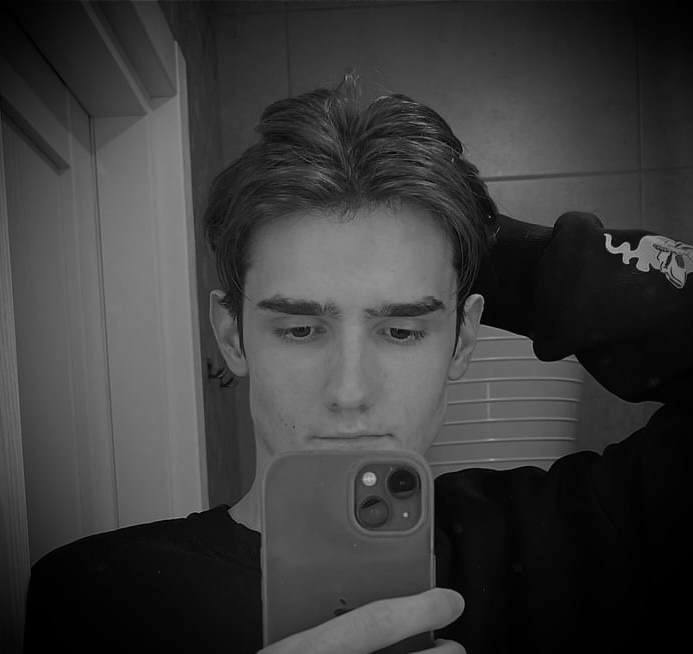
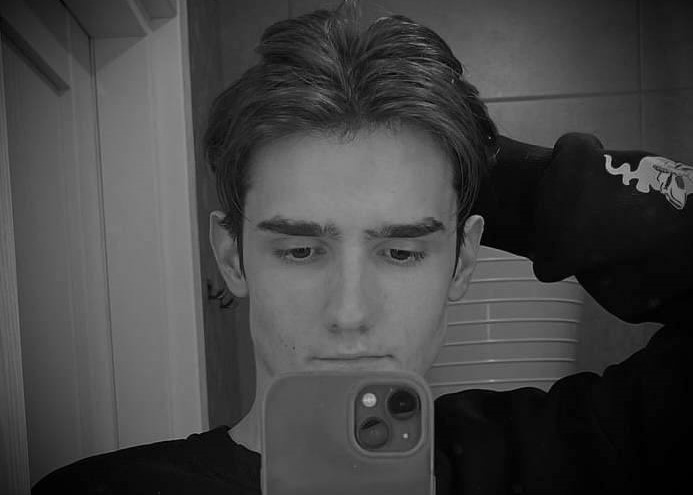
Зробив фото у формі "про нас" розміром 7:5 щоб вони виглядали всі однаково і були підлаштовані під віджет. Додав іконки у пагінації між кнопками навігації які візуально показують за що саме кожен учасний був відповідальний

diff --git a/Code/mainWindow.cpp b/Code/mainWindow.cpp
@@ -9,7 +9,7 @@ MainWindow_C::MainWindow_C(QWidget* parent) : QWidget(parent) {
         if (!imagesDir.exists()) {
             throw ex(1);
         }
-        QString photoNames[15]{
+        QString photoNames[19]{
             "Add_icon.png",
             "arrowL.png",
             "arrowR.png",
@@ -23,9 +23,14 @@ MainWindow_C::MainWindow_C(QWidget* parent) : QWidget(parent) {
             "title.png",
             "title_Setings.png",
             "vladMamont.jpg",
-            "warning.png"
+            "warning.png",
+            "ui.png",
+            "data.png",
+            "class.png",
+            "excep.png",
+            "algoritms.png"
         };
-        for (int i = 0; i < 14; i++) {
+        for (int i = 0; i < 19; i++) {
             if (QIcon("Images/"+ photoNames[i]).isNull()) {
                 throw ex(2);
             }
@@ -516,6 +521,7 @@ void MainWindow_C::AboutUsButtonPressed() {
         }
         //нове вікно про нас
         QDialog* settingsWidget = new QDialog(); settingsWidget->setObjectName("settingsWidget");
+
         QGridLayout* settingsLayout = new QGridLayout(settingsWidget);
         settingsWidget->setWindowIcon(mainIcon); // Встановлюю іконку
         settingsWidget->setWindowTitle("Про нас");
@@ -525,7 +531,7 @@ void MainWindow_C::AboutUsButtonPressed() {
         QWidget* Body = new QWidget(settingsWidget); Body->setObjectName("Body");
         QGridLayout* bodyLayout = new QGridLayout(Body);
 
-        settingsWidget->setFixedSize(400, 400);
+        settingsWidget->setFixedSize(450, 450);
         settingsLayout->addWidget(Body, 0, 0);
         //віджет для пагінації (винесено сюди, щоб у майбутньому його налаштувати )
         settingsLayout->setRowStretch(1, 1);
@@ -568,59 +574,127 @@ void MainWindow_C::AboutUsButtonPressed() {
             "}"
         );
 
-        ButtonNavigateLeft->setFixedSize(30, 30);
-        ButtonNavigateLright->setFixedSize(30, 30);
-        if (QIcon("Images/arrowL.png").isNull()) {
-            throw ex(2);
-        }
-        if (QIcon("Images/arrowR.png").isNull()) {
-            throw ex(2);
-        }
-        if (QIcon("Images/photo_Gaulun.jpg").isNull()) {
-            throw ex(2);
-        }
-        if (QIcon("Images/vladMamont.jpg").isNull()) {
-            throw ex(2);
-        }
-        if (QIcon("Images/IvanBondarenko.jpg").isNull()) {
-            throw ex(2);
-        }
-        if (QIcon("Images/sashaTretiak.jpg").isNull()) {
-            throw ex(2);
-        }
-        if (QIcon("Images/RodionShevchenko.jpg").isNull()) {
+        ButtonNavigateLeft->setFixedSize(40,40);
+        ButtonNavigateLright->setFixedSize(40,40);
+        ButtonNavigateLeft->setIconSize(QSize(25,25));
+        ButtonNavigateLright->setIconSize(QSize(25,25));
+
+        if (
+            QIcon("Images/arrowL.png").isNull() ||
+            QIcon("Images/arrowR.png").isNull() ||
+            QIcon("Images/photo_Gaulun.jpg").isNull() ||
+            QIcon("Images/vladMamont.jpg").isNull() || 
+            QIcon("Images/IvanBondarenko.jpg").isNull() ||
+            QIcon("Images/sashaTretiak.jpg").isNull() || 
+            QIcon("Images/RodionShevchenko.jpg").isNull() ||
+            QIcon("Images/arrowL.png").isNull()  ||
+            QIcon("Images/arrowR.png").isNull() ||
+            QIcon("Images/photo_Gaulun.jpg").isNull() ||
+            QIcon("Images/vladMamont.jpg").isNull() ||
+            QIcon("Images/IvanBondarenko.jpg").isNull()
+            ) {
             throw ex(2);
         }
 
+       
         ButtonNavigateLeft->setIcon(QIcon("Images/arrowL.png"));
         ButtonNavigateLright->setIcon(QIcon("Images/arrowR.png"));
 
-        PaginationLayout->addWidget(ButtonNavigateLeft, 0, 0, Qt::AlignRight);
-        PaginationLayout->addWidget(ButtonNavigateLright, 0, 1, Qt::AlignLeft);
+        PaginationLayout->setColumnStretch(0, 10);
+        PaginationLayout->setColumnStretch(1, 4);
+        PaginationLayout->setColumnStretch(2, 10);
 
-        auto showDev = [this, Body, bodyLayout](int& currentDevelopVar) {
+        auto setIcons = [settingsWidget](QLabel& label, const QString& way) {
+            label.setVisible(false);
+            label.setPixmap(QPixmap(way));
+            label.setFixedSize(40, 40);
+            label.setScaledContents(true);
+            };
+
+        QLabel* ui = new QLabel(settingsWidget);
+        QLabel* algoritms = new QLabel(settingsWidget);
+        QLabel* DataBase = new QLabel(settingsWidget);
+        QLabel* excep = new QLabel(settingsWidget);
+        QLabel* classR = new QLabel(settingsWidget);
+
+
+        setIcons(*ui, "Images/ui.png");
+        setIcons(*algoritms, "Images/algoritms.png");
+        setIcons(*DataBase, "Images/data.png");
+        setIcons(*excep, "Images/excep.png");
+        setIcons(*classR, "Images/class.png");
+
+
+        PaginationLayout->addWidget(ui, 0, 1);
+        PaginationLayout->addWidget(algoritms, 0, 1);
+        PaginationLayout->addWidget(DataBase, 0, 1);
+        PaginationLayout->addWidget(excep, 0, 1);
+        PaginationLayout->addWidget(classR, 0, 1);
+
+
+        
+        PaginationLayout->addWidget(ButtonNavigateLeft, 0, 0, Qt::AlignRight);
+        
+        PaginationLayout->addWidget(ButtonNavigateLright, 0, 2, Qt::AlignLeft);
+
+        auto showDev = [this, Body, bodyLayout, &PaginationLayout, &ui, &algoritms, &DataBase, &excep, &classR](int& currentDevelopVar) {
             if (currentDevelopVar == 0) {
-                showWindowAboutUs("Images/photo_Gaulun.jpg", "Гайлунь Владислав", "Інтерфейс", "https://github.com/Vlad156763", Body, bodyLayout);
+                showWindowAboutUs("Images/photo_Gaulun.jpg", "Гайлунь Владислав", "\nІнтерфейс та дизайн", "https://github.com/Vlad156763", Body, bodyLayout);
+                ui->setVisible(true);
+                algoritms->setVisible(false);
+                DataBase->setVisible(false);
+                excep->setVisible(false);
+                classR->setVisible(false);
             }
             else if (currentDevelopVar == 1) {
-                showWindowAboutUs("Images/vladMamont.jpg", "Мамонт Владислав", "Базу даних", "https://github.com/Teensik", Body, bodyLayout);
+                showWindowAboutUs("Images/vladMamont.jpg", "Мамонт Владислав", "\nБазу даних", "https://github.com/Teensik", Body, bodyLayout);
+                ui->setVisible(false);
+                algoritms->setVisible(false);
+                DataBase->setVisible(true);
+                excep->setVisible(false);
+                classR->setVisible(false);
             }
             else if (currentDevelopVar == 2) {
-                showWindowAboutUs("Images/sashaTretiak.jpg", "Третяк Олександр", "Алгоритми", "https://github.com/MrS1ngULaR1TY", Body, bodyLayout);
+                showWindowAboutUs("Images/sashaTretiak.jpg", "Третяк Олександр", "\nАлгоритми", "https://github.com/MrS1ngULaR1TY", Body, bodyLayout);
+                ui->setVisible(false);
+                algoritms->setVisible(true);
+                DataBase->setVisible(false);
+                excep->setVisible(false);
+                classR->setVisible(false);
             }
             else if (currentDevelopVar == 3) {
-                showWindowAboutUs("Images/RodionShevchenko.jpg", "Шевченко Родіон", "Розробку класів", "https://github.com/laidwannabe", Body, bodyLayout);
+                showWindowAboutUs("Images/RodionShevchenko.jpg", "Шевченко Родіон", "\nРозробку класів", "https://github.com/laidwannabe", Body, bodyLayout);
+                ui->setVisible(false);
+                algoritms->setVisible(false);
+                DataBase->setVisible(false);
+                excep->setVisible(false);
+                classR->setVisible(true);
             }
             else if (currentDevelopVar == 4) {
-                showWindowAboutUs("Images/IvanBondarenko.jpg", "Бондаренко Іван", "Обробку винятків", "https://github.com/butterflyway1", Body, bodyLayout);
+                showWindowAboutUs("Images/IvanBondarenko.jpg", "Бондаренко Іван", "\nОбробку винятків", "https://github.com/butterflyway1", Body, bodyLayout);
+                ui->setVisible(false);
+                algoritms->setVisible(false);
+                DataBase->setVisible(false);
+                excep->setVisible(true);
+                classR->setVisible(false);
             }
             else if (currentDevelopVar > 4) {
-                showWindowAboutUs("Images/photo_Gaulun.jpg", "Гайлунь Владислав", "Інтерфейс", "https://github.com/Vlad156763", Body, bodyLayout);
+                showWindowAboutUs("Images/photo_Gaulun.jpg", "Гайлунь Владислав", "\nІнтерфейс та дизайн", "https://github.com/Vlad156763", Body, bodyLayout);
                 currentDevelopVar = 0;
+                ui->setVisible(true);
+                algoritms->setVisible(false);
+                DataBase->setVisible(false);
+                excep->setVisible(false);
+                classR->setVisible(false);
             }
             else if (currentDevelopVar < 0) {
-                showWindowAboutUs("Images/IvanBondarenko.jpg", "Бондаренко Іван", "Обробку винятків", "https://github.com/butterflyway1", Body, bodyLayout);
+                showWindowAboutUs("Images/IvanBondarenko.jpg", "Бондаренко Іван", "\nОбробку винятків", "https://github.com/butterflyway1", Body, bodyLayout);
                 currentDevelopVar = 4;
+                ui->setVisible(false);
+                algoritms->setVisible(false);
+                DataBase->setVisible(false);
+                excep->setVisible(true);
+                classR->setVisible(false);
             }
             };
         static int currentDevelopVar = 0;
@@ -647,7 +721,13 @@ void MainWindow_C::AboutUsButtonPressed() {
         settingsWidget->setAttribute(Qt::WA_DeleteOnClose); //автоматичне очищення пам'яті
         Pagination->setStyleSheet(styleForWidget);
         //виклик методу який відповідає за відображення вікна про нас (без пагінації, пагінація додається окремо в поточній області видимост див. вище)
-        showWindowAboutUs("Images/photo_Gaulun.jpg", "Гайлунь Владислав", "Інтерфейс", "https://github.com/Vlad156763", Body, bodyLayout);
+        showWindowAboutUs("Images/photo_Gaulun.jpg", "Гайлунь Владислав", "\nІнтерфейс та дизайн", "https://github.com/Vlad156763", Body, bodyLayout);
+        ui->setVisible(true);
+        algoritms->setVisible(false);
+        DataBase->setVisible(false);
+        excep->setVisible(false);
+        classR->setVisible(false);
+        PaginationLayout->addWidget(ui, 0, 1);
         settingsWidget->exec();
     }
     catch (ex& error) {
@@ -710,7 +790,7 @@ void MainWindow_C::showWindowAboutUs( const QString& path, const QString& name, 
     //налаштовую фото
     
     QLabel* photoLabel = new QLabel(Body);  photoLabel->setObjectName("photoLabel");
-    photoLabel->setPixmap(QPixmap(path).scaled(215, 215, Qt::KeepAspectRatio, Qt::SmoothTransformation));
+    photoLabel->setPixmap(QPixmap(path).scaled(320, 320, Qt::KeepAspectRatio, Qt::SmoothTransformation));
     photoLabel->setAlignment(Qt::AlignCenter);
    
     photoLabel->setObjectName("photoLabel");
@@ -729,7 +809,7 @@ void MainWindow_C::showWindowAboutUs( const QString& path, const QString& name, 
     bodyLayout->addWidget(photoLabel, 0, 0);
     textLayout->addWidget(textName, 0, 0, 1, 2);
     textName->setAlignment(Qt::AlignCenter);
-    textLayout->addWidget(textLink, 1, 1);
+    textLayout->addWidget(textLink, 1, 1, Qt::AlignVCenter);
     textLink->setAlignment(Qt::AlignRight);
     textLayout->addWidget(textResponsible, 1, 0);
     textResponsible->setAlignment(Qt::AlignTop | Qt::AlignLeft);
@@ -2498,6 +2578,3 @@ int counterTimer::operator ++ (int) {
 int counterTimer::operator -- (int) {
     return this->counter--;
 }
-
-
-
